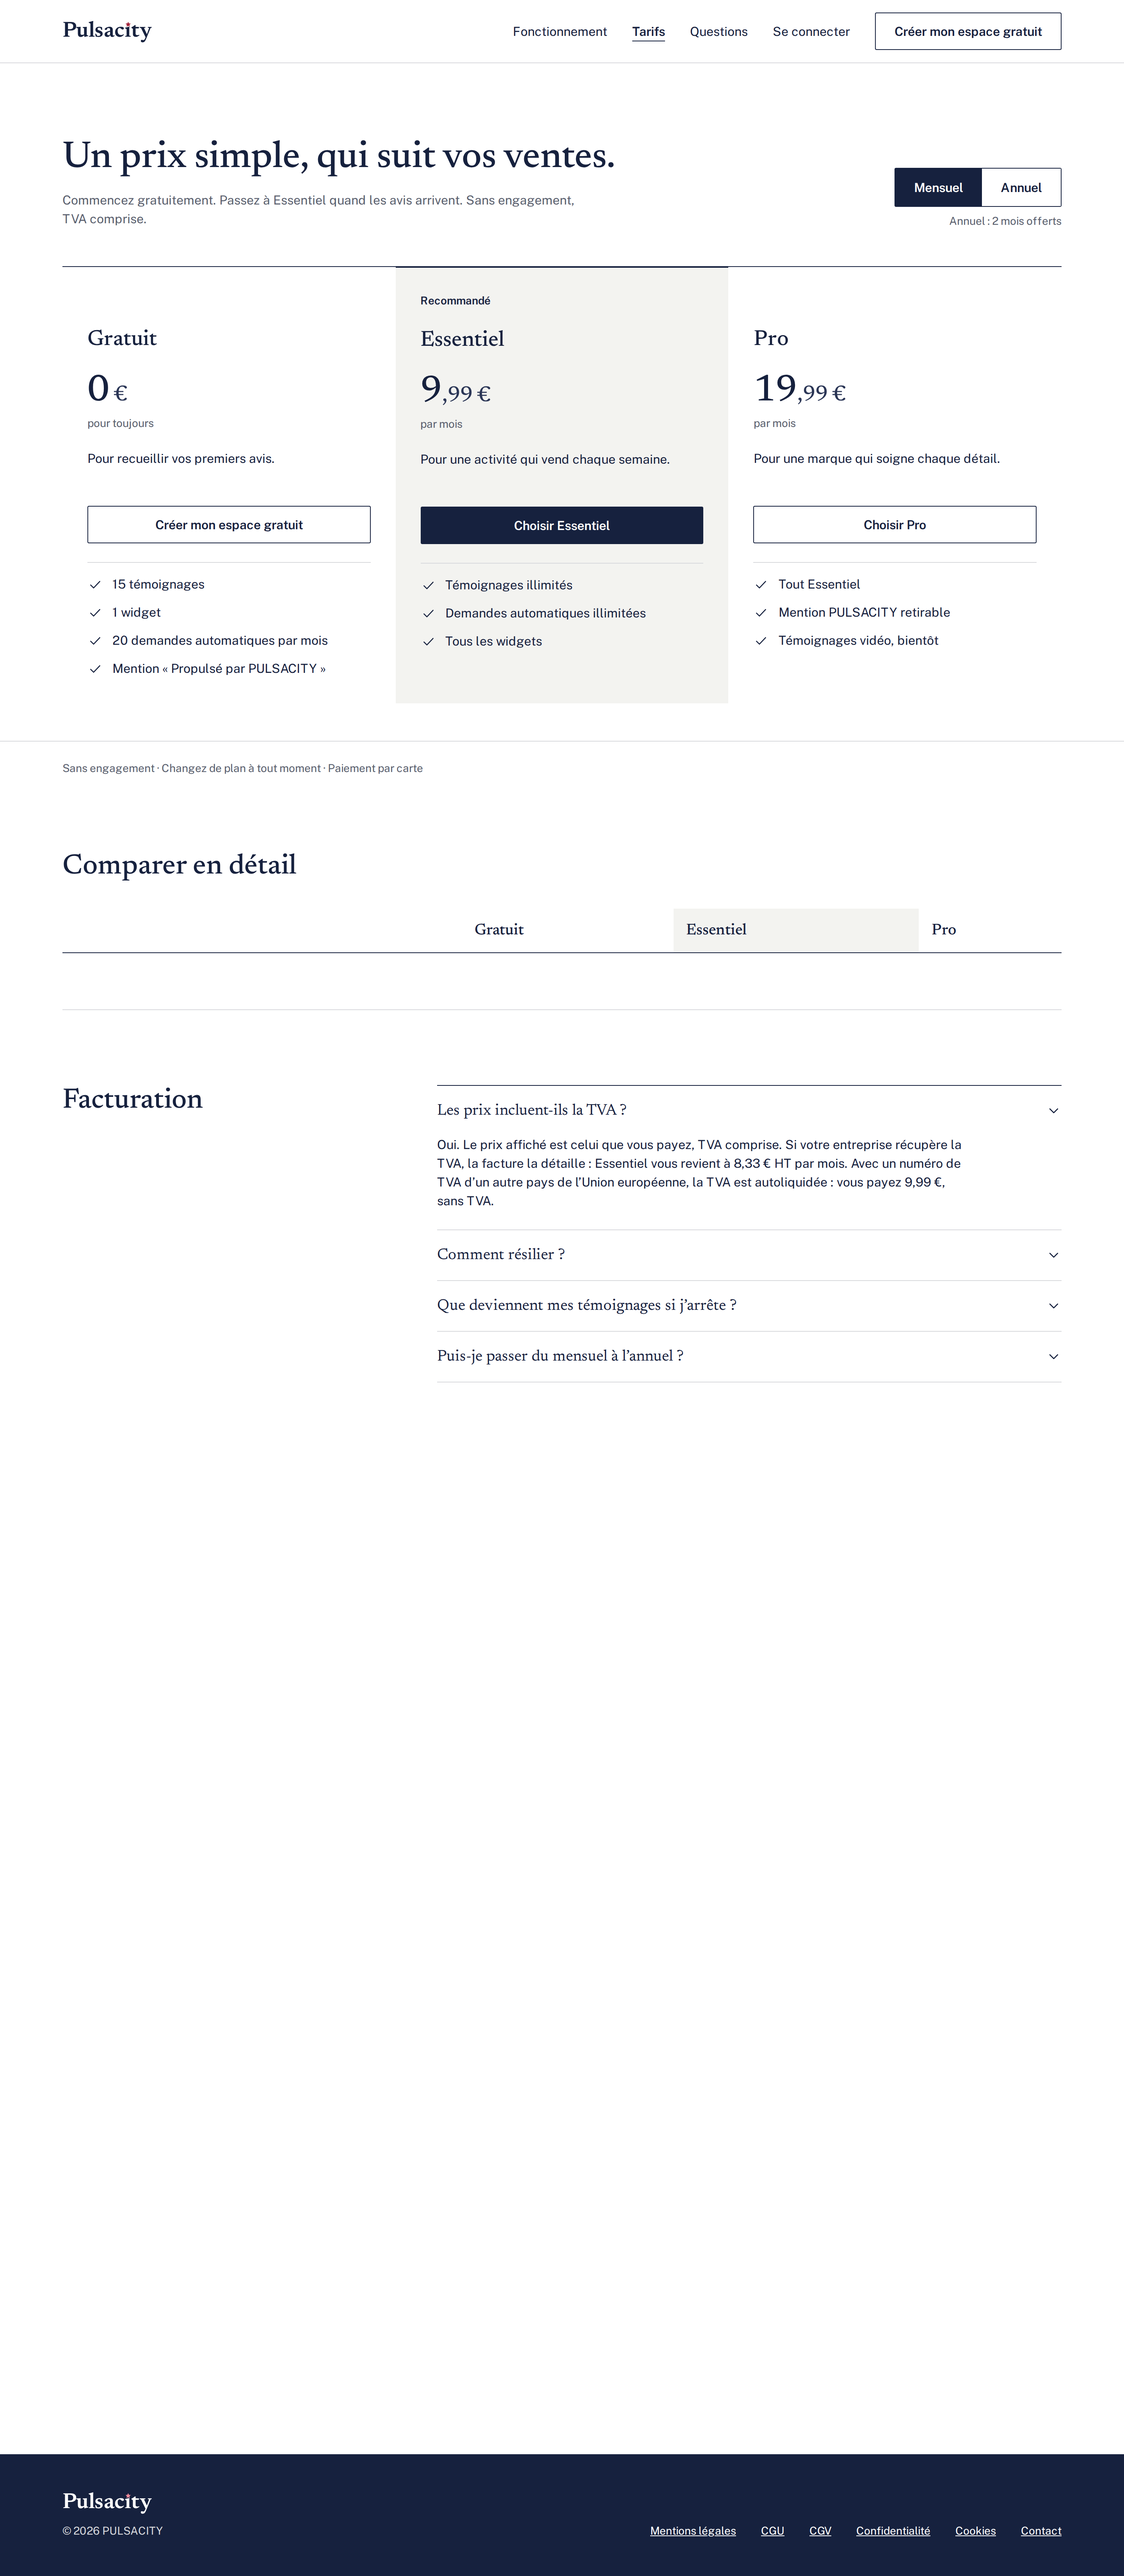
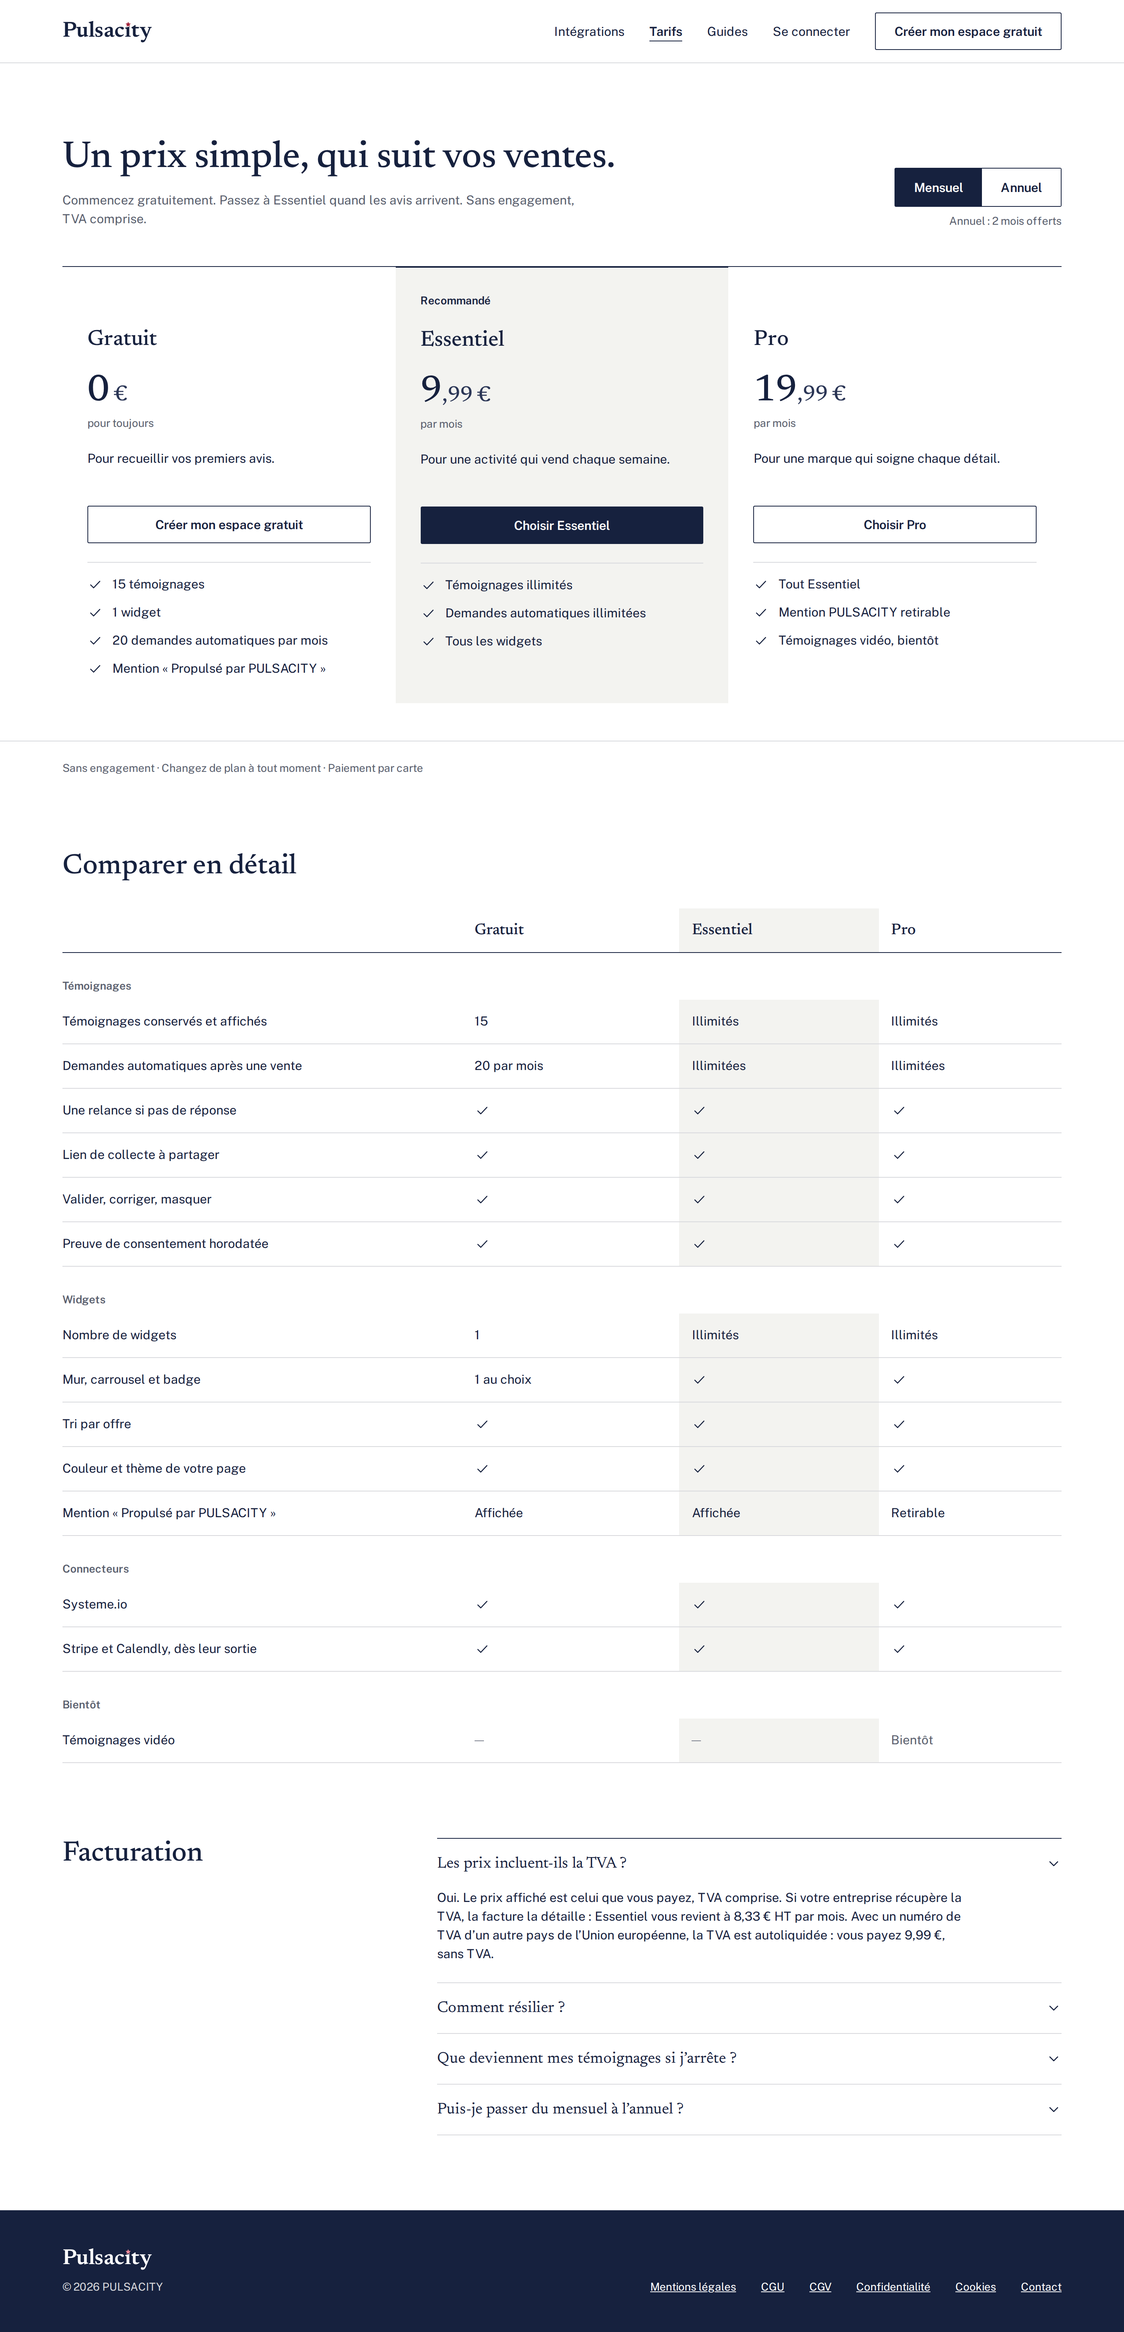
Add the public site maquettes m21 to m24 and the corrected m7 and m8
Design's delivery of 4 October: integrations, guides, legal pages and the
phone menu, plus m7 and m8 with the new menu, the prices of m8 and the full
comparison.

Claude-Session: https://claude.ai/code/session_01V8NnQ9qcSgAZML8C7JJnjb

diff --git a/docs-internes/maquettes/INDEX.md b/docs-internes/maquettes/INDEX.md
@@ -349,3 +349,46 @@ Modifié dans ce lot : m5-connecteurs-desktop-02-systemeio-connecte (lien « Cha
 | m20-demander-avis-desktop-07-plan-gratuit-20-demandes.png | Demander un avis · Plan Gratuit : 20 demandes parties · 1440 |
 | m20-demander-avis-mobile-08-sans-offre.png | Demander un avis · Aucune offre dans l’espace · 360 |
 | m20-demander-avis-desktop-08-sans-offre.png | Demander un avis · Aucune offre dans l’espace · 1440 |
+
+# Site public — 4 oct. 2026 (page « Site public »)
+
+En-tête et pied de page : logo horizontal de l’identité v2. Menu : Intégrations, Tarifs, Guides, Se connecter.
+
+## m21 — Intégrations
+| Fichier | Planche · état |
+| --- | --- |
+| m21-integrations-desktop-01-liste.png | /integrations · Liste · 1440 |
+| m21-integrations-mobile-01-liste.png | /integrations · Liste · 360 |
+| m21-integrations-desktop-02-systemeio.png | /integrations/systeme-io · 1440 |
+| m21-integrations-mobile-02-systemeio.png | /integrations/systeme-io · 360 |
+| m21-integrations-desktop-03-stripe.png | /integrations/stripe · Bientôt · 1440 |
+| m21-integrations-mobile-03-stripe.png | /integrations/stripe · Bientôt · 360 |
+| m21-integrations-desktop-04-stripe-inscrit.png | /integrations/stripe · « Nous vous préviendrons » · 1440 |
+| m21-integrations-mobile-04-stripe-inscrit.png | /integrations/stripe · « Nous vous préviendrons » · 360 |
+| m21-integrations-desktop-05-stripe-erreur.png | /integrations/stripe · Adresse incomplète · 1440 |
+| m21-integrations-mobile-05-stripe-erreur.png | /integrations/stripe · Adresse incomplète · 360 |
+| m21-integrations-desktop-06-calendly.png | /integrations/calendly · Bientôt · 1440 |
+| m21-integrations-mobile-06-calendly.png | /integrations/calendly · Bientôt · 360 |
+
+## m22 — Guides
+| Fichier | Planche · état |
+| --- | --- |
+| m22-guides-desktop-01-liste.png | /guides · Liste · 1440 |
+| m22-guides-mobile-01-liste.png | /guides · Liste · 360 |
+| m22-guides-desktop-02-guide.png | /guides/coller-le-widget-dans-systeme-io · 1440 |
+| m22-guides-mobile-02-guide.png | /guides/coller-le-widget-dans-systeme-io · 360 |
+
+## m23 — Pages légales
+| Fichier | Planche · état |
+| --- | --- |
+| m23-legal-desktop-01-brouillon.png | /confidentialite · Brouillon · 1440 |
+| m23-legal-mobile-01-brouillon.png | /confidentialite · Brouillon · 360 |
+
+## m24 — Menu du site sur téléphone
+| Fichier | Planche · état |
+| --- | --- |
+| m24-menu-mobile-01-ouvert.png | Menu du site ouvert · 360 |
+
+Modifiés dans ce lot, mêmes noms :
+- m7-accueil-desktop-01-page.png, m7-accueil-mobile-01-page.png : tarifs 9,99 € et 19,99 € par mois sans « HT », cartes alignées sur m8 (« Tri par offre » inclus dans les trois plans), lien « Voir le détail des tarifs » en Carmin ; en-tête desktop avec le nouveau menu.
+- m8-tarifs-desktop-01-mensuel.png, m8-tarifs-desktop-02-annuel.png : comparatif détaillé avec toutes ses lignes ; en-tête avec le nouveau menu ; planche raccourcie à 2988 px.
